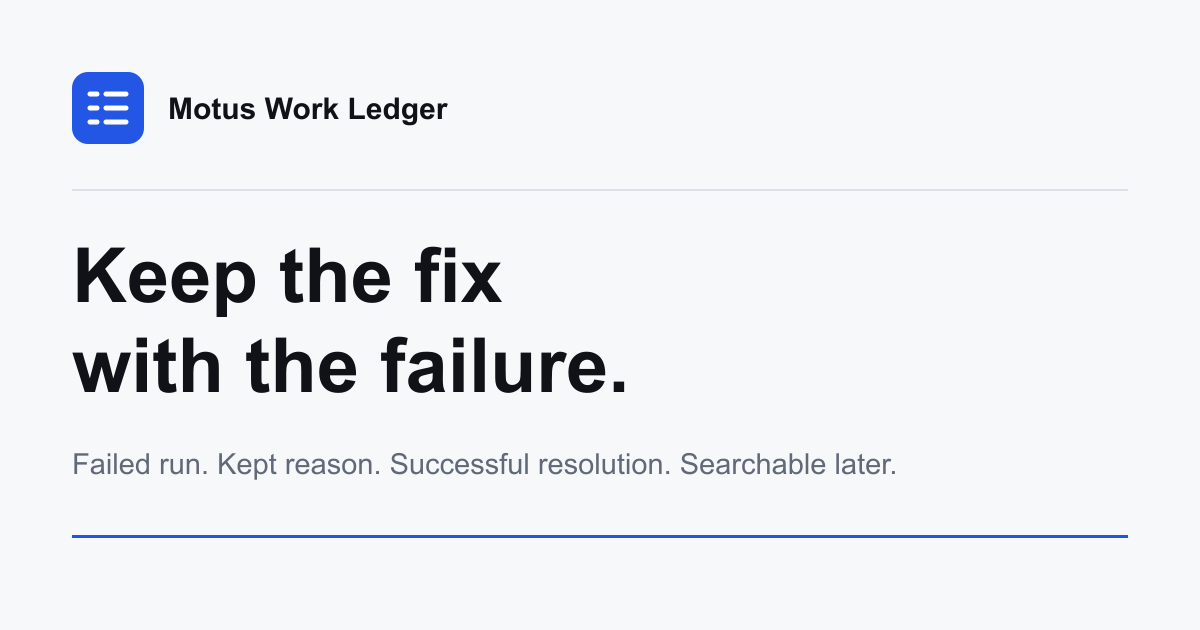
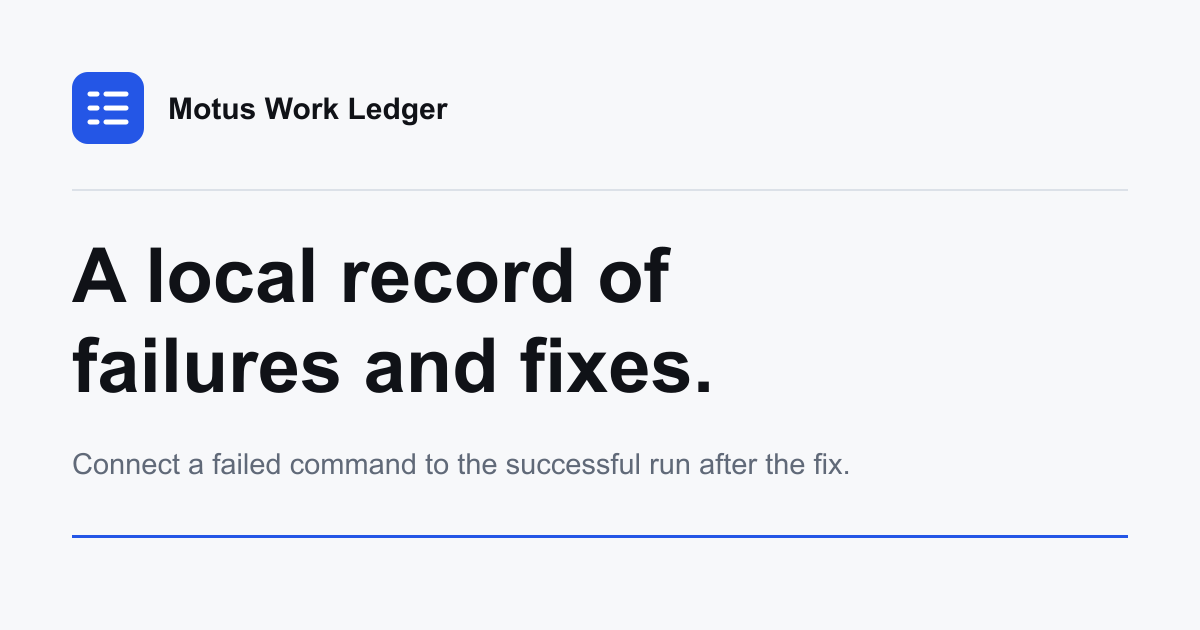
Make the first-use workflow easier to follow (#9)
Use direct product language, define run and finding terms, and show the complete five-step workflow. Simplify supporting copy, update the social preview, and keep concise hero copy under test.

Changed region(s): [[0.0617, 0.5127, 0.5858, 0.6333], [0.0617, 0.3921, 0.555, 0.5127], [0.0617, 0.7238, 0.74, 0.754]]

diff --git a/site/index.html b/site/index.html
@@ -3,15 +3,15 @@
 <head>
   <meta charset="utf-8">
   <meta name="viewport" content="width=device-width, initial-scale=1">
-  <title>Motus Work Ledger | Keep the fix with the failure</title>
-  <meta name="description" content="Motus connects a command run, the reason it mattered, and the successful run that resolved it in one local, searchable record.">
+  <title>Motus Work Ledger | A local record of failures and fixes</title>
+  <meta name="description" content="Motus connects a failed command, your explanation, and the successful run after the fix in one local, searchable ledger.">
   <link rel="canonical" href="https://www.motussupra.com/">
   <meta property="og:type" content="website">
   <meta property="og:title" content="Motus Work Ledger">
-  <meta property="og:description" content="Keep the run, the reason, and the successful resolution together.">
+  <meta property="og:description" content="Keep the failed run, your explanation, and the successful run together.">
   <meta property="og:url" content="https://www.motussupra.com/">
   <meta property="og:image" content="https://www.motussupra.com/assets/og-image.png">
-  <meta property="og:image:alt" content="Motus Work Ledger. Keep the fix with the failure.">
+  <meta property="og:image:alt" content="Motus Work Ledger. A local record of failures and fixes.">
   <meta name="twitter:card" content="summary_large_image">
   <meta name="theme-color" content="#f7f8fa">
   <link rel="icon" href="./assets/favicon.svg" type="image/svg+xml">
@@ -41,8 +41,8 @@
   <main id="main">
     <section class="hero shell" aria-labelledby="hero-title">
       <div class="hero-copy">
-        <h1 id="hero-title">Keep the fix with the failure.</h1>
-        <p class="hero-lede">When a command exposes a problem, the reason and the fix often end up split across terminal output, chat, commits, and memory. Motus connects the failed run, the explanation you want to keep, and the successful run that resolved it, so the next attempt can start with what worked.</p>
+        <h1 id="hero-title">A local record of failures and fixes.</h1>
+        <p class="hero-lede">Motus connects a failed command, your explanation, and the successful run after the fix. Search the ledger when the problem returns.</p>
         <div class="hero-actions">
           <a class="button" href="#install">Install Motus</a>
           <a class="text-link" href="#how-it-works">See the workflow</a>
@@ -52,22 +52,22 @@
       <div class="terminal" aria-label="A failed run, finding, successful resolution, and later retrieval">
         <div class="terminal-bar" aria-hidden="true">
           <span></span><span></span><span></span>
-          <strong>one problem, one resolution</strong>
+          <strong>motus</strong>
         </div>
         <pre tabindex="0"><code><span class="quiet">01  FAILED RUN</span>
-verify-generated.sh
-run_0d27...  failure
+npm test
+run_0370...  failure
 
-<span class="quiet">02  FINDING</span>
+<span class="quiet">02  YOUR FINDING</span>
 The generated file was stale.
 
-<span class="quiet">03  RESOLVING RUN</span>
-verify-generated.sh
-run_c0e5...  <span class="success">success</span>
+<span class="quiet">03  SUCCESSFUL RUN</span>
+npm test
+run_c588...  <span class="success">success</span>
 
-<span class="quiet">04  LATER</span>
+<span class="quiet">04  SEARCH LATER</span>
 finding list --query stale
-finding_c896...  resolved</code></pre>
+finding_1457...  resolved</code></pre>
         <div class="terminal-foot">
           <span>local</span>
           <span>run-linked</span>
@@ -78,8 +78,8 @@ finding_c896...  resolved</code></pre>
 
     <section class="section shell" id="how-it-works" aria-labelledby="flow-title">
       <div class="section-intro">
-        <h2 id="flow-title">The run keeps the facts. The finding keeps the reason.</h2>
-        <p>Motus sits around a command you already use. It records selected machine facts, then lets you add the explanation you choose to keep.</p>
+        <h2 id="flow-title">How Motus works.</h2>
+        <p>A run is one command execution. A finding is the short note you keep about a failure. Motus links the failed run, your finding, and the successful run after the fix.</p>
       </div>
 
       <ol class="flow" aria-label="Motus finding workflow">
@@ -91,20 +91,20 @@ finding_c896...  resolved</code></pre>
         </li>
         <li>
           <span class="flow-number">02</span>
-          <strong>Explain</strong>
-          <p>If the run exposes a failure you may see again, keep the cause or next step.</p>
+          <strong>Add a finding</strong>
+          <p>Save the detail you will need if the failure returns.</p>
           <code>motus finding add</code>
         </li>
         <li>
           <span class="flow-number">03</span>
-          <strong>Resolve</strong>
-          <p>Connect the finding to the successful run that fixed it.</p>
+          <strong>Link the fix</strong>
+          <p>After the fix works, link the finding to that successful run.</p>
           <code>motus finding close</code>
         </li>
         <li>
           <span class="flow-number">04</span>
           <strong>Find later</strong>
-          <p>Search your words and inspect both runs when the problem returns.</p>
+          <p>Search the finding and inspect both runs when the problem returns.</p>
           <code>motus finding list --query</code>
         </li>
       </ol>
@@ -112,57 +112,84 @@ finding_c896...  resolved</code></pre>
 
     <section class="section shell" id="example" aria-labelledby="example-title">
       <div class="section-intro">
-        <h2 id="example-title">The record is there when the problem returns.</h2>
-        <p>This example was captured from Motus, then condensed for space. The displayed IDs are shortened.</p>
+        <h2 id="example-title">Find what worked the last time.</h2>
+        <p>Motus output with shortened IDs.</p>
       </div>
 
       <div class="receipt-layout">
         <div class="example-code">
           <pre class="receipt-code" tabindex="0"><code>$ motus finding list --query stale
-finding_c896...  resolved
+finding_1457...  resolved
 The generated file was stale.
 
-$ motus finding show finding_c896...
-Origin run:    run_0d27...  failure
-Resolving run: run_c0e5...  success
+$ motus finding show finding_1457...
+Origin run:    run_0370...  failure
+Resolving run: run_c588...  success
 Closure note: Refreshed the generated file
               before running the check.</code></pre>
         </div>
         <div class="receipt-copy">
-          <h3>The run supplies the facts</h3>
-          <p>Motus records the executable name, Git state, timing, exit status, outcome, and output counts.</p>
-          <h3>You supply the meaning</h3>
-          <p>The finding stores the summary, hypothesis, or next step you deliberately submit through a file or standard input.</p>
-          <h3>The fix stays traceable</h3>
-          <p>Resolving a finding connects it to a closed successful run without changing either run receipt.</p>
+          <h3>Run facts</h3>
+          <p>Command name, Git state, timing, exit status, outcome, and output counts.</p>
+          <h3>Your finding</h3>
+          <p>A summary, likely cause, and next step that you choose to save.</p>
+          <h3>Resolution</h3>
+          <p>A note and a link to the successful run after the fix.</p>
         </div>
       </div>
     </section>
 
     <section class="section shell" id="install" aria-labelledby="install-title">
       <div class="section-intro">
-        <h2 id="install-title">Use it on the next failure.</h2>
-        <p>Download the current release, record the failed run, connect the successful fix, then search for it again.</p>
+        <h2 id="install-title">Try the full workflow.</h2>
+        <p>This example uses <code>npm test</code>. Replace it with any command you already run. Paths and IDs are shortened.</p>
       </div>
 
       <div class="quickstart">
         <div class="quickstep">
-          <div><span>1</span><h3>Install</h3></div>
-          <pre tabindex="0"><code>go install github.com/motus-os/work-ledger/cmd/motus@latest</code></pre>
-          <p>Requires Go 1.26.5 or newer. You can also use a verified archive from <a href="https://github.com/motus-os/work-ledger/releases/latest">GitHub Releases</a>.</p>
+          <div class="quickstep-copy">
+            <div class="quickstep-title"><span>1</span><h3>Install Motus</h3></div>
+            <p>Use Go 1.26.5 or newer, or download a verified archive from <a href="https://github.com/motus-os/work-ledger/releases/latest">GitHub Releases</a>.</p>
+          </div>
+          <pre tabindex="0"><code>$ go install github.com/motus-os/work-ledger/cmd/motus@latest</code></pre>
         </div>
         <div class="quickstep">
-          <div><span>2</span><h3>Record and explain</h3></div>
-          <p>Run the command Motus prints after the failure. Enter one line, then press Ctrl-D on macOS or Linux. On Windows, press Ctrl-Z and then Enter.</p>
-          <pre tabindex="0"><code>motus wrap -- YOUR_COMMAND
-motus finding add --run FAILED_RUN_ID --file -</code></pre>
+          <div class="quickstep-copy">
+            <div class="quickstep-title"><span>2</span><h3>Record the failing command</h3></div>
+            <p>Motus prints a run ID. After a failure, it also prints the exact command for adding a finding.</p>
+          </div>
+          <pre tabindex="0"><code>$ motus wrap -- npm test
+motus: recorded run_0370... (failure)
+Keep why this failed:
+  motus finding add --run run_0370... --file -</code></pre>
         </div>
         <div class="quickstep">
-          <div><span>3</span><h3>Resolve and find later</h3></div>
-          <p>Run the fix through Motus. Use the successful run ID, enter a closure note, then finish input the same way.</p>
-          <pre tabindex="0"><code>motus wrap -- YOUR_COMMAND
-motus finding close FINDING_ID --disposition resolved --run SUCCESS_RUN_ID --file -
-motus finding list --query stale</code></pre>
+          <div class="quickstep-copy">
+            <div class="quickstep-title"><span>3</span><h3>Save a finding</h3></div>
+            <p>Copy the printed command. Type a short note and finish input with Ctrl-D, or Ctrl-Z and Enter on Windows. Motus prints a finding ID.</p>
+          </div>
+          <pre tabindex="0"><code>$ motus finding add --run run_0370... --file -
+The generated file was stale.
+Recorded finding_1457... (open)</code></pre>
+        </div>
+        <div class="quickstep">
+          <div class="quickstep-copy">
+            <div class="quickstep-title"><span>4</span><h3>Record the successful check</h3></div>
+            <p>Fix the problem and run the same command again. Keep the new run ID if it succeeds.</p>
+          </div>
+          <pre tabindex="0"><code>$ motus wrap -- npm test
+motus: recorded run_c588... (success)</code></pre>
+        </div>
+        <div class="quickstep">
+          <div class="quickstep-copy">
+            <div class="quickstep-title"><span>5</span><h3>Link and search</h3></div>
+            <p>Use the finding ID and successful run ID. Enter a closure note, finish input the same way, then search your saved words.</p>
+          </div>
+          <pre tabindex="0"><code>$ motus finding close finding_1457... --disposition resolved --run run_c588... --file -
+Refreshed the generated file before running the check.
+Closed finding_1457... (resolved)
+
+$ motus finding list --query stale</code></pre>
         </div>
       </div>
       <p class="documentation-link"><a href="https://github.com/motus-os/work-ledger#install">Read the full install and workflow guide</a></p>
@@ -170,8 +197,8 @@ motus finding list --query stale</code></pre>
 
     <section class="section shell" id="recorded" aria-labelledby="recorded-title">
       <div class="section-intro">
-        <h2 id="recorded-title">What stays in the local ledger.</h2>
-        <p>The ledger keeps machine facts about selected runs and the findings you choose to add.</p>
+        <h2 id="recorded-title">What Motus keeps.</h2>
+        <p>Run facts are captured when you use <code>motus wrap</code>. Finding text is stored only when you add it.</p>
       </div>
 
       <div class="boundary-columns">
@@ -189,10 +216,10 @@ motus finding list --query stale</code></pre>
         <div>
           <h3>Written by you</h3>
           <ul>
-            <li>finding summary and analysis</li>
+            <li>finding summary and likely cause</li>
             <li>next step, when useful</li>
             <li>resolution or dismissal note</li>
-            <li>origin and resolving run links</li>
+            <li>links to the failed and successful runs</li>
           </ul>
         </div>
       </div>
@@ -200,20 +227,20 @@ motus finding list --query stale</code></pre>
 
     <section class="section shell questions" aria-labelledby="questions-title">
       <div class="section-intro">
-        <h2 id="questions-title">Questions.</h2>
+        <h2 id="questions-title">Common questions.</h2>
       </div>
       <dl>
         <div>
           <dt>Why not Git, shell history, or CI logs?</dt>
-          <dd>Those tools preserve source changes, commands, or execution output. Motus connects a selected run, the explanation you kept, and the run that resolved it in one local record.</dd>
+          <dd>Git tracks source changes; shell history and CI keep commands and logs. Motus connects the failed run, your note, and the successful run.</dd>
         </div>
         <div>
           <dt>Does Motus store raw command output?</dt>
-          <dd>No. It streams output normally and records counts. Finding text is stored only when you add it deliberately.</dd>
+          <dd>No. Motus streams output normally and records only counts. It stores finding text only when you add it.</dd>
         </div>
         <div>
           <dt>What does a receipt establish?</dt>
-          <dd>It is a deterministic projection of a closed run in your local ledger. The included SHA-256 digest checks the receipt body against its envelope. <a href="./security.html">Read the security model.</a></dd>
+          <dd>A receipt is a repeatable JSON view of a closed run. Its digest detects changes to the receipt body. It is not a signature. <a href="./security.html">Read the security model.</a></dd>
         </div>
       </dl>
     </section>
@@ -221,8 +248,8 @@ motus finding list --query stale</code></pre>
     <section class="closing">
       <div class="shell closing-inner">
         <div>
-          <h2>Keep the next failure and its fix.</h2>
-          <p>Keep the run, the reason, and the successful resolution together.</p>
+          <h2>Record the next failure you solve.</h2>
+          <p>Keep the failed run, your explanation, and the successful run together.</p>
         </div>
         <a class="button button-light" href="#install">Install Motus</a>
       </div>

diff --git a/site/privacy.html b/site/privacy.html
@@ -33,26 +33,26 @@
   <main id="main" class="page shell">
     <header class="page-header">
       <h1>Privacy</h1>
-      <p>The website is static. The command-line application keeps its ledger on your machine.</p>
+      <p>This website is static. Motus keeps its ledger on your machine.</p>
     </header>
 
     <div class="page-body">
       <section aria-labelledby="site-title">
         <h2 id="site-title">This website</h2>
-        <p>The site has no analytics, advertising, cookies, forms, accounts, or client-side JavaScript. It does not receive or upload your Motus ledger.</p>
-        <p>The hosting provider may process standard web request data such as an IP address, requested URL, browser information, and request time to deliver and protect the site. See <a href="https://docs.github.com/en/site-policy/privacy-policies/github-general-privacy-statement">GitHub's privacy statement</a> for its practices.</p>
+        <p>The site has no analytics, advertising, cookies, forms, accounts, or client-side JavaScript. It never receives your Motus ledger.</p>
+        <p>GitHub Pages may process standard request data such as your IP address, browser, requested URL, and request time. See <a href="https://docs.github.com/en/site-policy/privacy-policies/github-general-privacy-statement">GitHub's privacy statement</a>.</p>
       </section>
 
       <section aria-labelledby="app-title">
         <h2 id="app-title">The command-line application</h2>
-        <p>Motus stores selected command metadata in <code>.motus/ledger.db</code> at the current Git root or working directory unless you choose another state path. It has no telemetry or ledger network client.</p>
+        <p>Motus stores selected command facts in <code>.motus/ledger.db</code> at the current Git root, or in the current directory outside Git. You can choose another path. Motus does not send the ledger anywhere.</p>
         <p>Wrapped-command argument values and stdin, raw stdout and stderr, environment variables, source files, prompts, and transcripts are not stored.</p>
-        <p>Finding text and closure notes are stored only when you submit them through a file or standard input. They remain in the local ledger until you delete the ledger file.</p>
+        <p>Motus stores finding text and closure notes only when you submit them. They remain until you delete the ledger file.</p>
       </section>
 
       <section aria-labelledby="control-title">
         <h2 id="control-title">Your control</h2>
-        <p>The ledger is an ordinary local SQLite file. You choose where it lives, whether it is backed up, who can access it, and when it is deleted. Add <code>.motus/</code> to the project's ignore file if it should remain outside version control.</p>
+        <p>The ledger is a local SQLite file. You choose its location, backups, access, and deletion. Add <code>.motus/</code> to <code>.gitignore</code> if it should stay out of version control.</p>
       </section>
     </div>
   </main>

diff --git a/site/security.html b/site/security.html
@@ -33,7 +33,7 @@
   <main id="main" class="page shell">
     <header class="page-header">
       <h1>Security</h1>
-      <p>Motus protects a local ledger from accidental mutation and ordinary application writes. The database owner remains outside that boundary.</p>
+      <p>Motus blocks ordinary changes to a local ledger and checks it for inconsistencies. Anyone who controls the database file can still rewrite it.</p>
     </header>
 
     <div class="page-body">
@@ -47,19 +47,19 @@
           <li>event sequence order and finding run links</li>
           <li>terminal events against their run projections</li>
         </ul>
-        <p>SQLite constraints and triggers reject ordinary event or finding mutation, deletion, sequence gaps, writes after a terminal event, run deletion, and changes to a closed run. A finding can be closed once without rewriting its original record.</p>
+        <p>SQLite rules block normal updates, deletes, missing event numbers, events after a run closes, run deletion, and changes to closed runs. Closing a finding adds a separate record; the original does not change.</p>
       </section>
 
       <section aria-labelledby="boundary-title">
         <h2 id="boundary-title">Trust boundary</h2>
-        <p>A person who controls the database file can drop the triggers, change records and hashes, and restore a self-consistent schema. A passing <code>motus doctor</code> report cannot prove this never happened.</p>
-        <p>Receipts are not signed. Motus does not independently observe the command or prove that every relevant event was captured, that the producer told the truth, or that the work was correct.</p>
+        <p>Anyone who controls the database can remove these protections and rewrite the records and hashes. <code>motus doctor</code> checks the current file but cannot prove this never happened.</p>
+        <p>Receipts are unsigned local records. Motus does not observe the command independently or prove that the work was correct.</p>
       </section>
 
       <section aria-labelledby="data-title">
         <h2 id="data-title">Sensitive data</h2>
-        <p>Run lifecycle payloads are generated by Motus and exclude wrapped-command argument values and stdin, raw output, environment variables, source files, prompts, and transcripts.</p>
-        <p>Finding text is different. Motus stores the summary, hypothesis, next step, or closure note that you explicitly submit through a file or standard input. Review that content before recording it.</p>
+        <p>Motus creates run records without command argument values, stdin, raw output, environment variables, source files, prompts, or transcripts.</p>
+        <p>Motus stores the finding summary, likely cause, next step, or closure note that you submit. Review that text before recording it.</p>
       </section>
 
       <section aria-labelledby="report-title">

diff --git a/site/assets/site.css b/site/assets/site.css
@@ -440,22 +440,32 @@ dd {
   border-bottom: 1px solid var(--rule);
 }
 
-.quickstep > div {
+.quickstep-copy {
+  min-width: 0;
+}
+
+.quickstep-title {
   display: flex;
   align-items: baseline;
   gap: 1rem;
 }
 
-.quickstep span {
+.quickstep-title span {
   color: var(--blue);
   font-family: var(--mono);
   font-size: 0.75rem;
   font-weight: 700;
 }
 
-.quickstep h3 {
+.quickstep-title h3 {
   margin: 0;
   font-size: 0.98rem;
+}
+
+.quickstep-copy p {
+  margin: 0.65rem 0 0;
+  color: var(--muted);
+  font-size: 0.92rem;
 }
 
 .quickstep pre,
@@ -474,12 +484,6 @@ dd {
   padding: 1.2rem 1.35rem;
   white-space: pre-wrap;
   overflow-wrap: anywhere;
-}
-
-.quickstep > p {
-  max-width: 46rem;
-  margin: 0;
-  color: var(--muted);
 }
 
 .documentation-link {

diff --git a/site/404.html b/site/404.html
@@ -32,7 +32,7 @@
 
   <main id="main" class="not-found shell">
     <p class="error-code">404</p>
-    <h1>That page is not in the ledger.</h1>
+    <h1>Page not found.</h1>
     <p>Check the address or return to the Motus Work Ledger home page.</p>
     <a class="button" href="https://www.motussupra.com/">Return home</a>
   </main>
